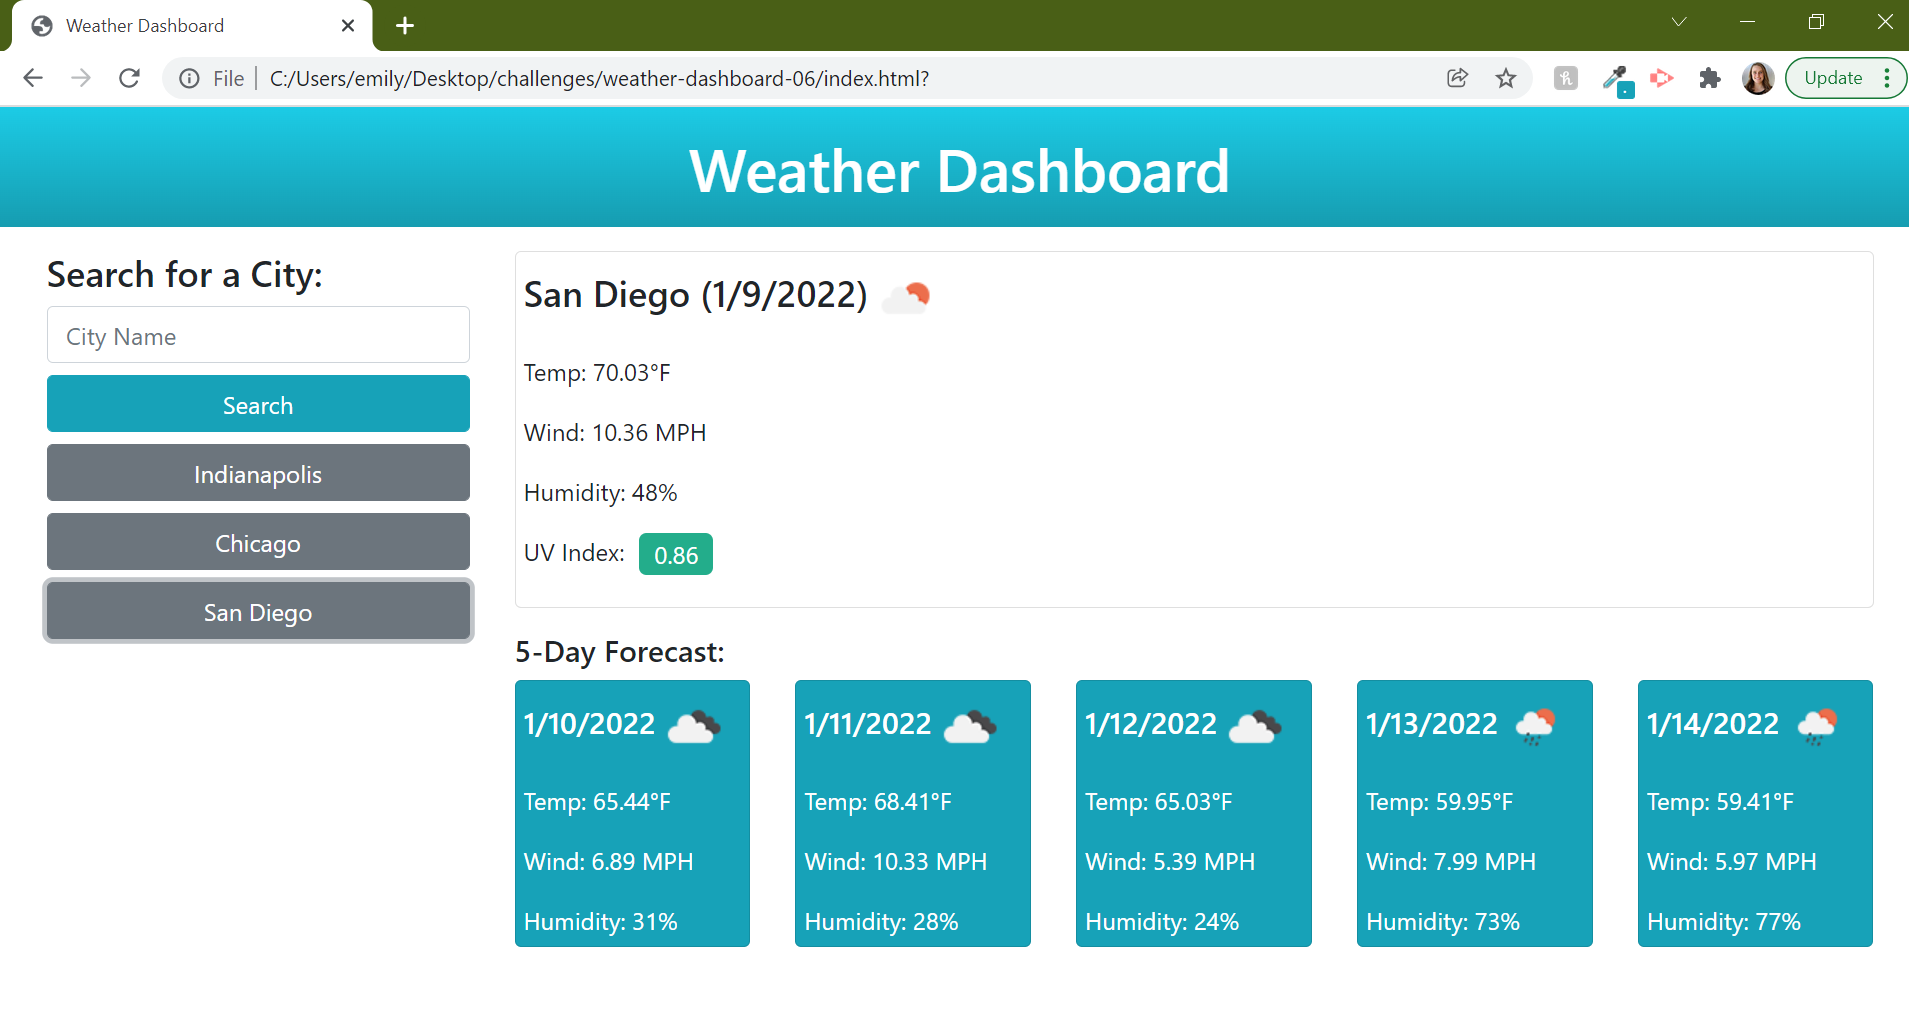
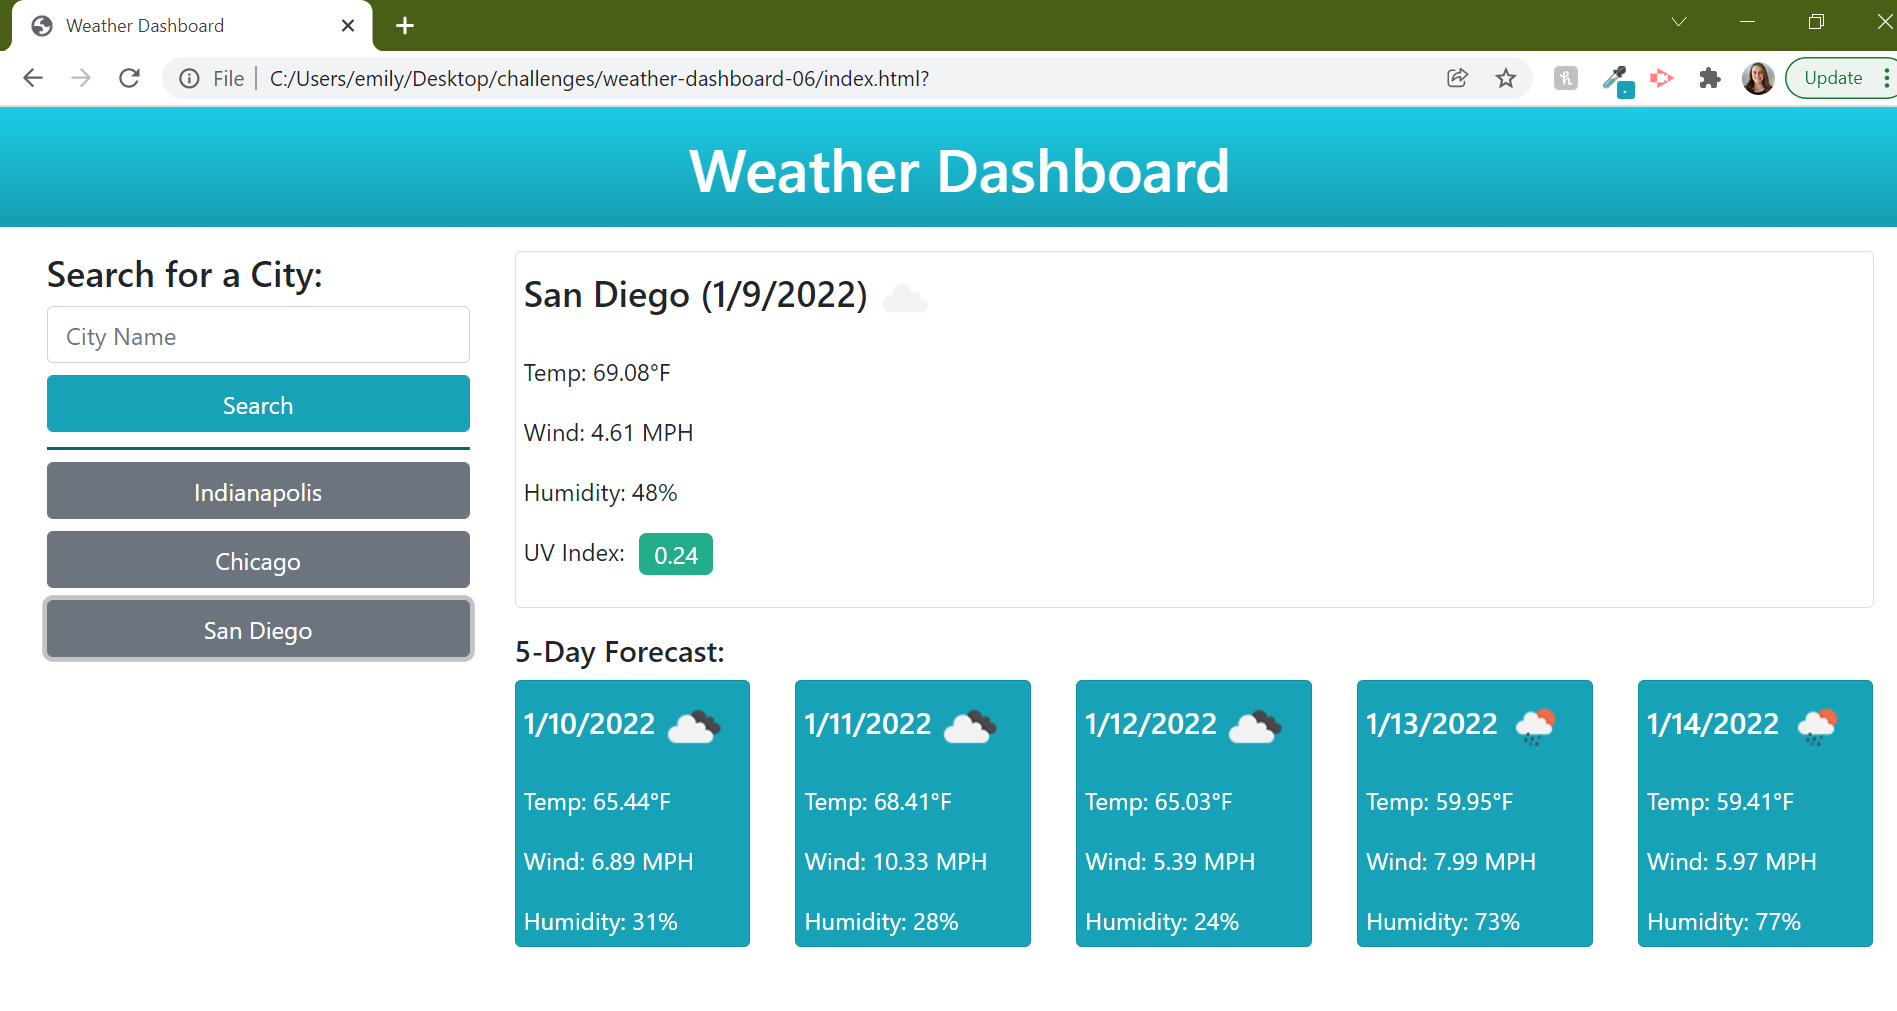
add divider

diff --git a/assets/css/style.css b/assets/css/style.css
@@ -32,3 +32,8 @@
   margin-left: 10px;
   border-radius: 5px;
 }
+
+#search-history {
+  margin-top: 10px;
+  border-top: #0e626e solid;
+}
